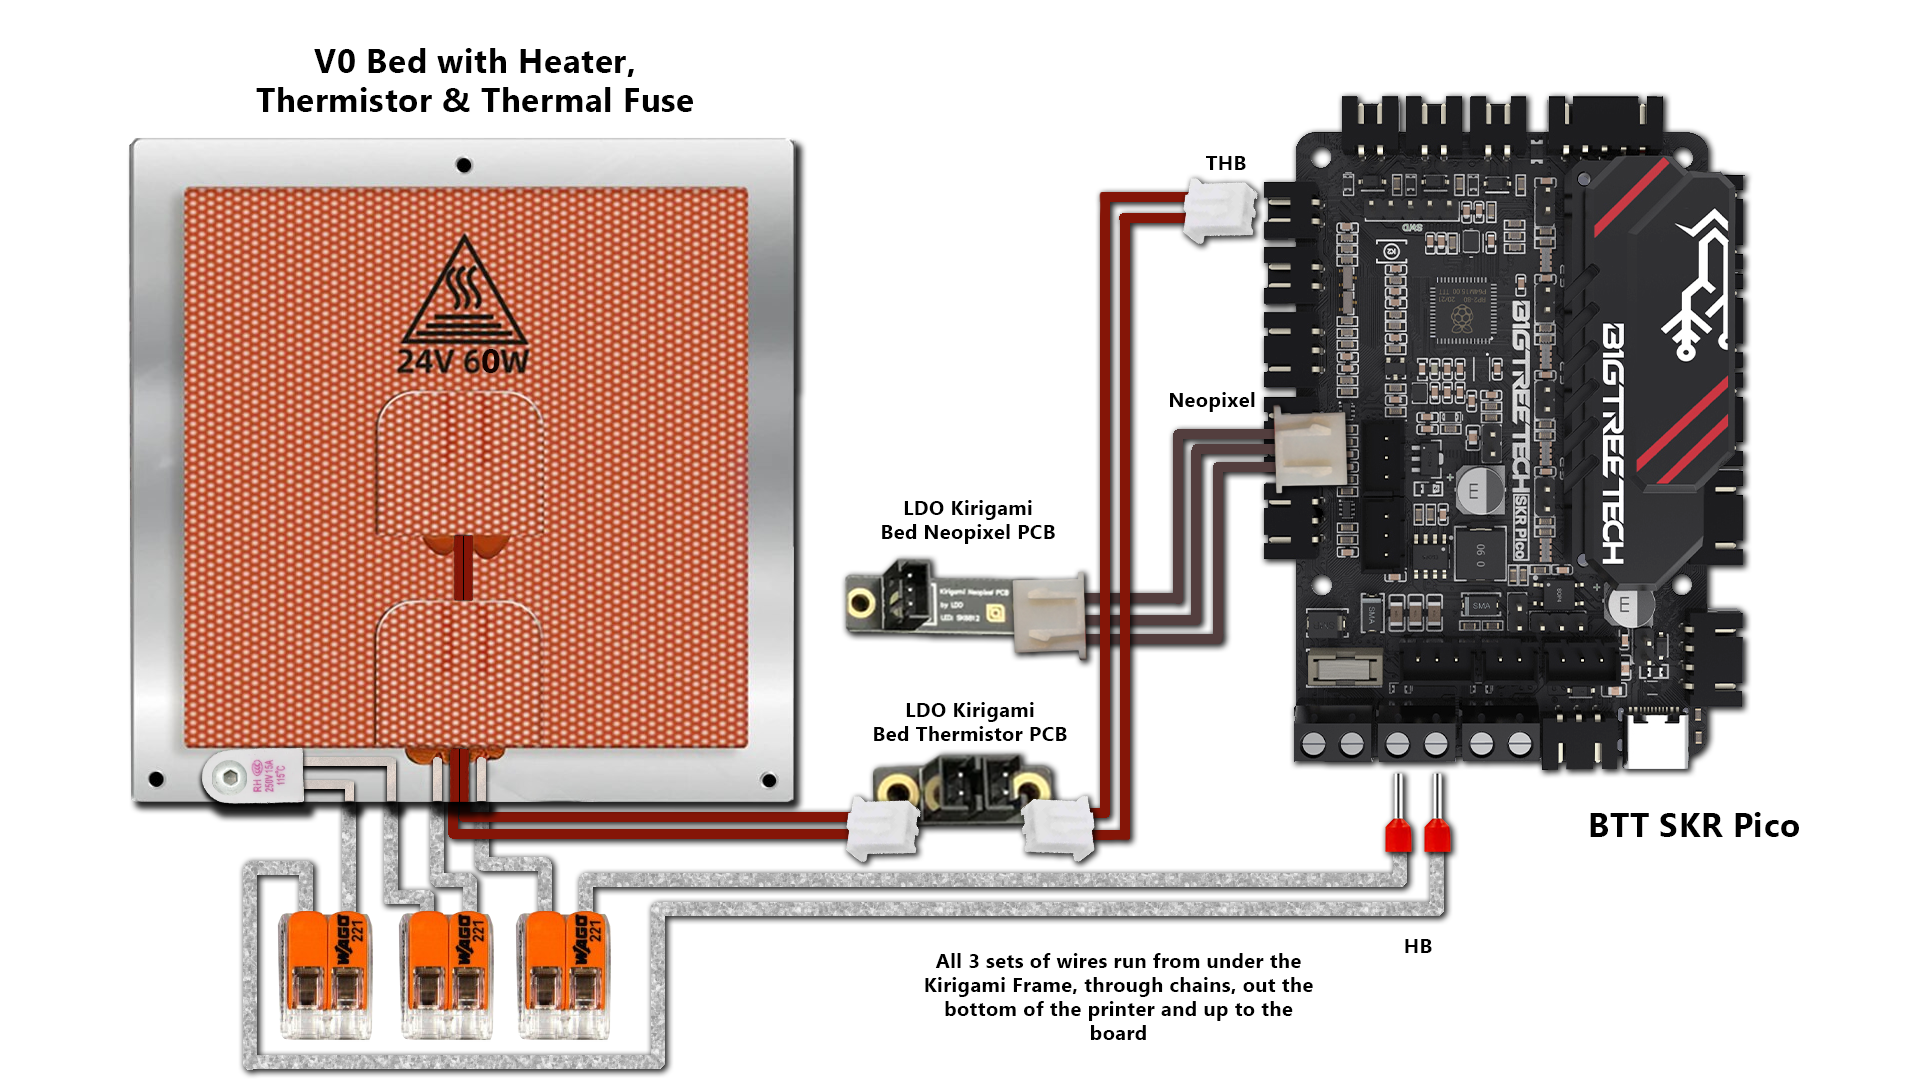
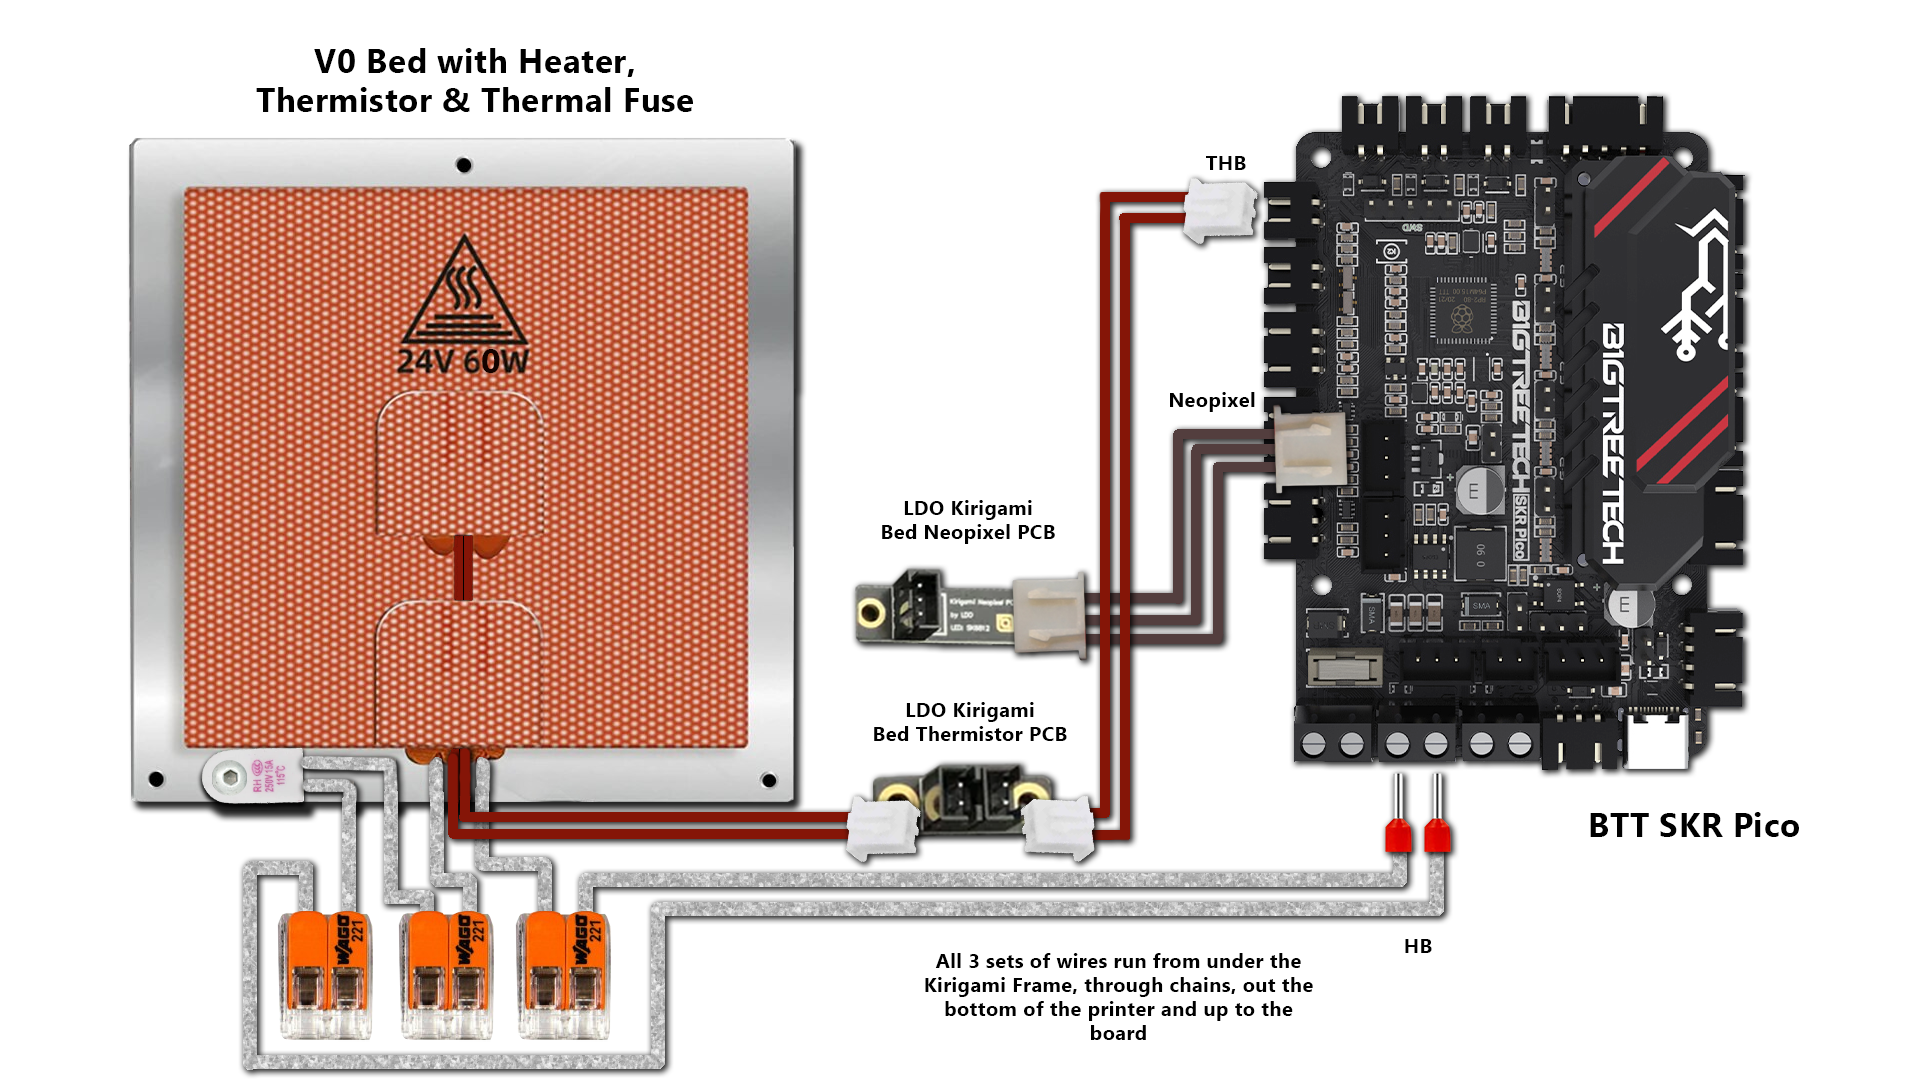
feat: wiring images in readme

Changed region(s): [[0.4375, 0.6722, 0.5625, 0.7944], [0.4375, 0.5194, 0.5312, 0.6111], [0.1562, 0.7028, 0.2812, 0.7639]]

diff --git a/README.md b/README.md
@@ -108,6 +108,24 @@ Images: https://github.com/bigtreetech/CB1/releases
 
 By Default the host name for the image will be "btt-cb1" and it can be accessed with "btt-cb1.local" if you don't know the IP Address for it yet.
 
+## Wiring
+
+The Kirigami Bed Frame alows splitting the wiring coming out of the bed so that the bed can be removed and worked on without being tethered to the printer.
+
+Voron recommends using Wago connectors to allow easily disconnecting the wires. The Kirigami bed mod includes mounts for the Wago connectors.
+
+Since the Formbot kit bed heater doesn't include an integrated thermal fuse it needs to be connected inline with one side of the bed wires.
+
+### Generic Formbot Wiring
+![Generic Formbot Kirigami Wiring](Images/Wiring/Formbot-Kirigami-Generic.png)
+
+An inline connector can be used to split the Thermistor wires under the bed.
+
+### Formbot Wiring + LDO Kirigami Wiring Kit
+![Generic Formbot Kirigami Wiring](Images/Wiring/Formbot-Kirigami-+-LDO-Wiring-Kit.png)
+
+The LDO wiring kit includes 2 Wago mounts, a Thermistor breakout PCB and an LED PCB. The LDO V0 repo has stls for mounting its PCBs and the wagos. See the Kirigami Manual for more info.
+
 ## Products Used
 ### Fabreeko cPIF V0.2 Printed Parts
 https://www.fabreeko.com/collections/v0/products/voron-v0-2-s1-printed-parts-by-pif?variant=43678271570175
